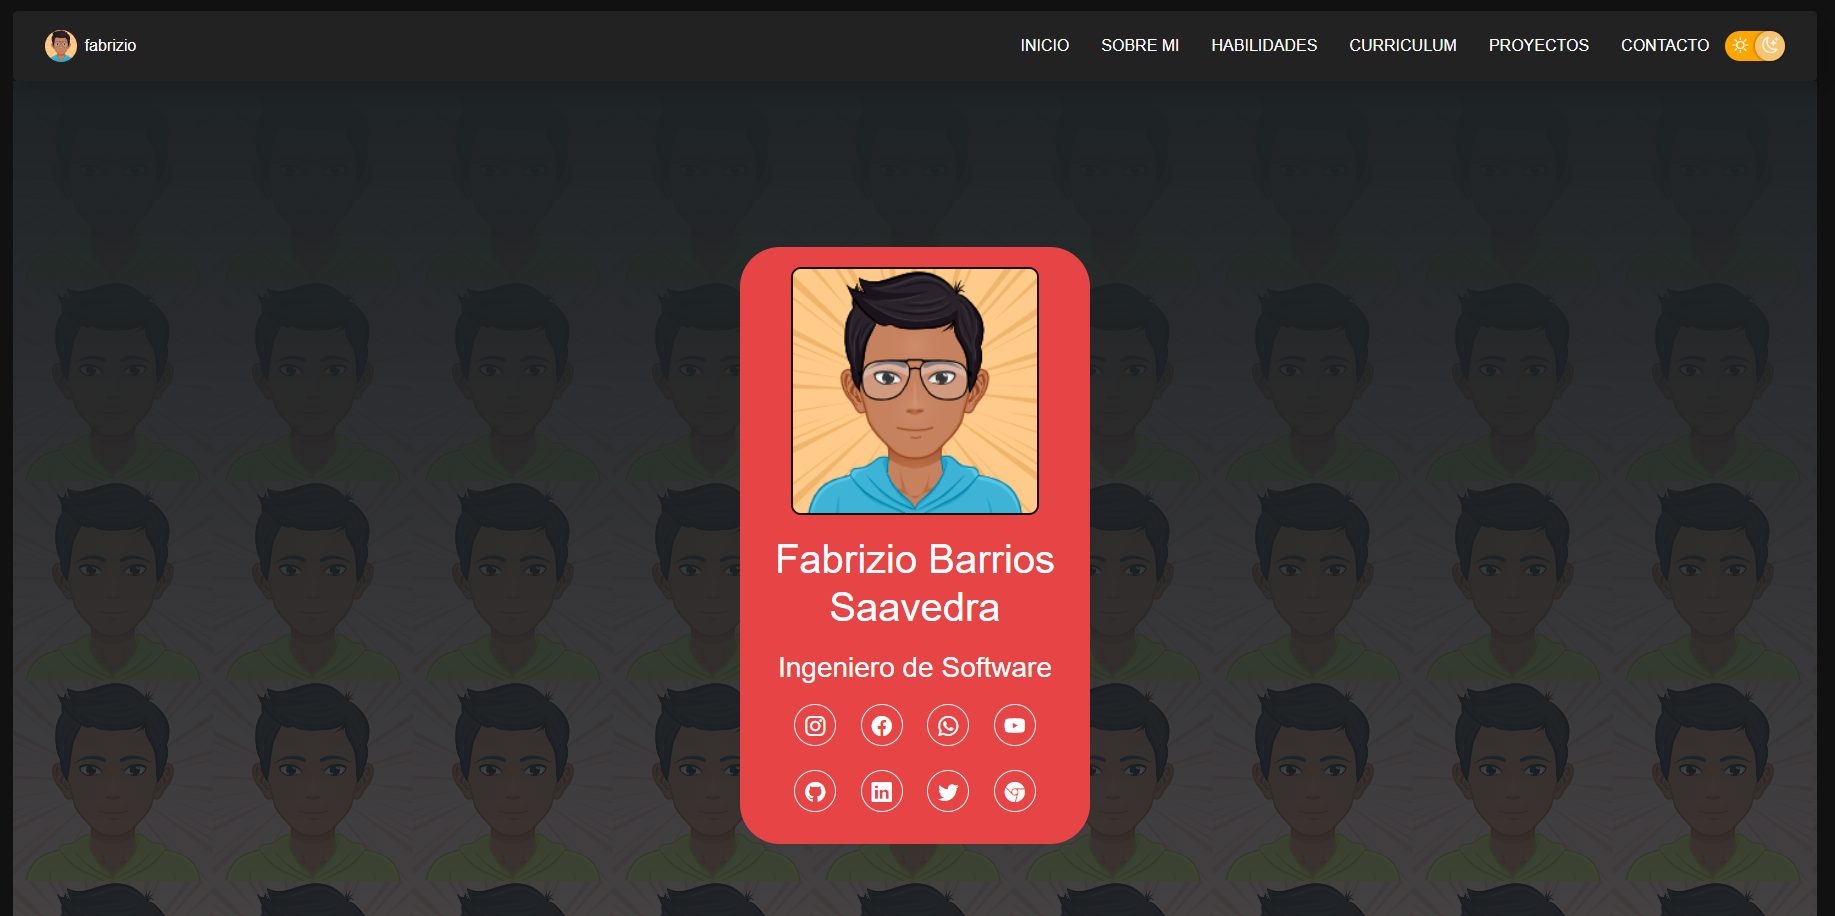
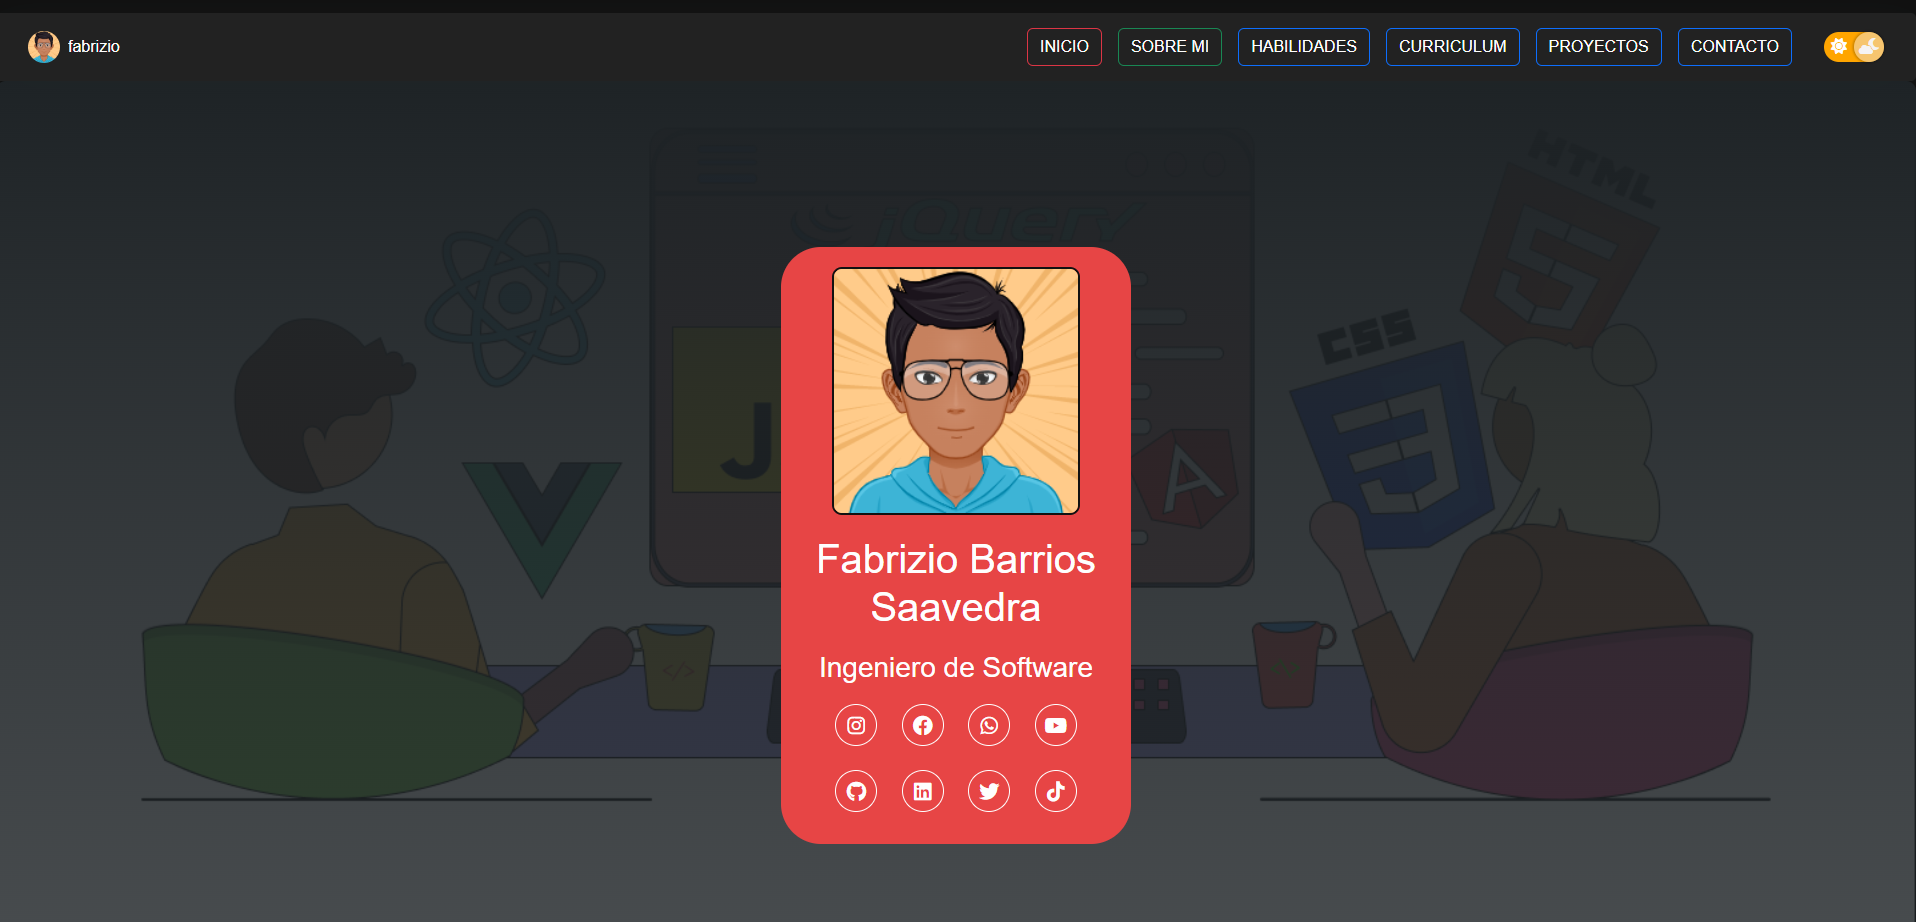
agregando readme y figma

diff --git a/index.html b/index.html
@@ -9,7 +9,9 @@
     <link rel="icon" href="img/avatar/icono.png">
     <!--CDN-->
     <link href="https://cdn.jsdelivr.net/npm/bootstrap@5.3.0-alpha1/dist/css/bootstrap.min.css" rel="stylesheet" integrity="sha384-GLhlTQ8iRABdZLl6O3oVMWSktQOp6b7In1Zl3/Jr59b6EGGoI1aFkw7cmDA6j6gD" crossorigin="anonymous">
-    <link rel="stylesheet" href="https://cdn.jsdelivr.net/npm/bootstrap-icons@1.10.3/font/bootstrap-icons.css">
+    
+    <!--FONTAWESOME-->
+    <link rel="stylesheet" href="https://cdnjs.cloudflare.com/ajax/libs/font-awesome/6.2.1/css/all.min.css" integrity="sha512-MV7K8+y+gLIBoVD59lQIYicR65iaqukzvf/nwasF0nqhPay5w/9lJmVM2hMDcnK1OnMGCdVK+iQrJ7lzPJQd1w==" crossorigin="anonymous">
     <link rel="stylesheet" href="scss/darkmode.css">
 </head>
 <body>
@@ -43,22 +45,19 @@
             <a href="#contacto" class="btn btn-outline-primary me-3">CONTACTO</a>
           </li>
         </ul>
-        <div class="nav-responsive" onclick="mostrarOcultarMenu()">
-          <i class="fa-solid fa-bars"></i>
-      </div>
         <button class="darkmode" id="darkmode">
-          <span><i class="bi bi-sun"></i></span>
-          <span><i class="bi bi-cloud-moon-fill"></i></span>
+          <span><i class="fas fa-sun"></i></span>
+          <span><i class="fas fa-cloud-moon"></i></span>
         </button> 
 
         <!-- responsive -->
         <button class="nave2 navbar-toggler border" type="button" data-bs-toggle="offcanvas" data-bs-target="#offcanvasNavbar2" aria-controls="offcanvasNavbar2">
-          <span><i class="bi bi-list"></i></span>
+          <span><i class="fa-solid fa-bars"></i></span>
         </button>
         <div class="offcanvas offcanvas-end" tabindex="-1" id="offcanvasNavbar2" aria-labelledby="offcanvasNavbar2Label">
           <div class="offcanvas-header">
             <h5 class="offcanvas-title" id="offcanvasNavbar2Label">Mi Perfil</h5>
-            <span><i class="bi bi-x-lg" data-bs-dismiss="offcanvas" aria-label="Close"></i></span>
+            <span><i class="fa-regular fa-circle-xmark fa-2x" data-bs-dismiss="offcanvas" aria-label="Close"></i></span>
           </div>
           <div class="offcanvas-body text-center">
             <ul class="navbar-nav justify-content-end flex-grow-1 pe-3">
@@ -97,14 +96,14 @@
         <h1>Fabrizio Barrios Saavedra</h1>
         <h2>Ingeniero de Software</h2>
         <div class="redsocial">
-          <a href=""><i class="bi bi-instagram"></i></a>
-          <a href=""><i class="bi bi-facebook"></i></a>
-          <a href=""><i class="bi bi-whatsapp"></i></a>
-          <a href=""><i class="bi bi-youtube"></i></a>
-          <a href=""><i class="bi bi-github"></i></a>
-          <a href=""><i class="bi bi-linkedin"></i></a>
-          <a href=""><i class="bi bi-twitter"></i></a>
-          <a href=""><i class="bi bi-browser-chrome"></i></a>
+          <a href=""><i class="fa-brands fa-instagram"></i></a>
+          <a href=""><i class="fa-brands fa-facebook"></i></a>
+          <a href=""><i class="fa-brands fa-whatsapp"></i></a>
+          <a href=""><i class="fa-brands fa-youtube"></i></a>
+          <a href=""><i class="fa-brands fa-github"></i></a>
+          <a href=""><i class="fa-brands fa-linkedin"></i></a>
+          <a href=""><i class="fa-brands fa-twitter"></i></a>
+          <a href=""><i class="fa-brands fa-tiktok"></i></a>
         </div>
       </div>
     </section>
@@ -151,9 +150,52 @@
             </div>
 
             <!--Intereses-->
+            <div class="col">
+              <h3>Intereses</h3>
+              <div class="contenedor-intereses">
+                <div class="interes">
+                  <i class="fa-solid fa-gamepad"></i>
+                  <span>JUEGOS</span>
+                </div>
+                <div class="interes">
+                  <i class="fa-solid fa-headphones-simple"></i>
+                  <span>MUSICA</span>
+                </div>
+                <div class="interes">
+                  <i class="fa-solid fa-plane-departure"></i>
+                  <span>VIAJAR</span>
+                </div>
+                <div class="interes">
+                  <i class="fa-brands fa-ubuntu"></i>
+                  <span>UBUNTU</span>
+                </div>
+                <!--icono para responsive-->
+                <div class="interes1">
+                  <i class="fa-brands fa-linux"></i>
+                  <span>UBUNTU</span>
+                </div>
+                <div class="interes">
+                  <i class="fa-solid fa-futbol"></i>
+                  <span>DEPORTE</span>
+                </div>
+                <div class="interes">
+                  <i class="fa-solid fa-laptop-code"></i>
+                  <span>PROGRAMAR</span>
+                </div>
+                <div class="interes">
+                  <i class="fa-solid fa-car"></i>
+                  <i class="fa-solid fa-motorcycle"></i>
+                  <span>AUTOS y motos</span>
+                </div>
+                <div class="interes">
+                  <i class="fa-solid fa-camera"></i>
+                  <span>FOTOS</span>
+                </div>
+              </div>
+            </div>
           </div>
-      </div>
-    </section>
+        </div>
+      </section>
 
     <!--contacto-->
     <section id="contacto" class="contacto">
@@ -167,7 +209,7 @@
             <input type="text" placeholder="Tu nombre">
             <input type="text" placeholder="Tu nombre">
             <textarea name="" id="" cols="30" placeholder="Mensaje"></textarea>
-            <button>
+            <button type="button" class="btn btn-outline">
               enviar Mensaje <i class="bi bi-send"></i>
               <span class="overlay"></span>
             </button>
@@ -217,7 +259,7 @@
             <h3>Hecho en Clases</h3>
             <div class="mb-1">Dic 29</div>
             <p class="card-text mb-auto">Aqui te presento una aplicacion de Escritorio.</p>
-            <a download="" href="download/SISCURSOS.rar" class="btn btn-outline-success bi bi-arrow-down-circle"  title="descargar el proyecto">&nbsp; descargar</a>
+            <a download="" href="download/SISCURSOS.rar" class="btn btn-outline-success fa-solid fa-download"  title="descargar el proyecto">&nbsp; descargar</a>
           </div>
         </div>
       </div>
@@ -225,6 +267,7 @@
     
 
     <!---->
+    <button type="button" class="btn btn-outline-primary">Puedes Descargar mi CV <i class="fa-solid fa-download"></i></button>
     <h1>pagina en prueba</h1>
     <a href="views/curriculum.html">puede ver mi curriculum haciendo click aqui</a>
     

diff --git a/scss/darkmode.scss b/scss/darkmode.scss
@@ -194,6 +194,8 @@ div {
 .inicio{
     body.dark & {
         box-shadow: $blanco;
+        background: linear-gradient(to top, rgba(30,35,38,.8), rgba(30,35,38,1)), url(../img/darkmode.png);
+        background-size: cover;
         a {
             color: $blanco;
             //que estos enlaces cuando tengan un hover cambien de color a blanco (x ejemplo)
@@ -323,23 +325,34 @@ div {
         line-height: 30px;
         display: block;
         background: none;
-        color: #fff;
+        color: $blanco;
     }
 }
 //fin modo oscuro
 
+/*para lo que es responsivo*/
+.navbar-toggler{
+    display: none;
+}
+
+.cajadw{
+    border: 2px solid $negro;
+    overflow: hidden;
+    position: relative;
+}
 
 /*seccion css*/
 .inicio{
-    //background: linear-gradient(to top, rgba(30,35,38,.8), rgba(30,35,38,1)), url(../img/avatar/myAvatar2.png);
-    background-size: contain;
+    background: linear-gradient(to top, rgba(238, 238, 238, .8), rgb(238, 238, 238, 1)), url(../img/whitemode.png);
+    //background: url(../img/whitemode.png);
+    background-size: cover;
     font-family: 'Ubuntu', sans-serif;
     height: 100vh; //altura del card
     color: $blanco;
     display: flex;
     align-items: center;
+    border-radius: 10px;
 }
-
 .inicio .contenedor-banner{
     background-color: $azulHover;
     padding: 20px;
@@ -358,7 +371,6 @@ div {
     text-align: center;
     border-radius: 10px;
 }
-
 .inicio .contenedor-banner h1{
     margin-top: 20px;
     font-size: 40px;
@@ -368,7 +380,6 @@ div {
     font-size: 28px;
     font-weight: normal;
 }
-
 .inicio .contenedor-banner .redsocial a{
     display: inline-block;
     text-decoration: none;
@@ -384,21 +395,14 @@ div {
 .inicio .contenedor-banner .redsocial a:hover{
     background-color: $rojo; //color q sale al pasar el cursor
 }
-/*para lo que es responsivo*/
-.navbar-toggler{
-    display: none;
-}
 
-.cajadw{
-    border: 2px solid $negro;
-    overflow: hidden;
-    position: relative;
+//seccion sobre mi
+.sobremi{
+    padding: 50px 20px;;
 }
-
 //seccion contacto
 .contacto{
-    background-image: url(../img/contact_bg.png);
-    background-color: $grisOscuro;
+    background-image: url(../img/mundo.png);
     color: $blanco;
     padding: 50px 0;
 }
@@ -443,6 +447,7 @@ div {
     z-index: 10;
 }
 .contacto button .overlay{
+    border-radius: 4px;
     position: absolute;
     top: 0;
     left: 0;
@@ -473,6 +478,7 @@ div {
 .contacto .col .info ul li i{
     display: none;
 }
+
 /*para quitar marca de 00webhost*/
 img[src*="https://cdn.000webhost.com/000webhost/logo/footer-powered-by-000webhost-white2.png"]{
     display: none;
@@ -482,6 +488,7 @@ img[src*="https://cdn.000webhost.com/000webhost/logo/footer-powered-by-000webhos
 
 @media screen and (max-width: 800px){
     .inicio{
+        background-image: none;
         height: 100vh; //altura del card
     }
     .navbar-toggler{

diff --git a/scss/darkmode.css b/scss/darkmode.css
@@ -159,6 +159,8 @@ body.dark .offcanvas-body li a:hover {
 
 body.dark .inicio {
   box-shadow: #FEFEFE;
+  background: linear-gradient(to top, rgba(30, 35, 38, 0.8), rgb(30, 35, 38)), url(../img/darkmode.png);
+  background-size: cover;
 }
 body.dark .inicio a {
   color: #FEFEFE;
@@ -266,17 +268,30 @@ body.dark .navbar .img2 {
   line-height: 30px;
   display: block;
   background: none;
-  color: #fff;
+  color: #FEFEFE;
+}
+
+/*para lo que es responsivo*/
+.navbar-toggler {
+  display: none;
+}
+
+.cajadw {
+  border: 2px solid #111111;
+  overflow: hidden;
+  position: relative;
 }
 
 /*seccion css*/
 .inicio {
-  background-size: contain;
+  background: linear-gradient(to top, rgba(238, 238, 238, 0.8), rgb(238, 238, 238)), url(../img/whitemode.png);
+  background-size: cover;
   font-family: "Ubuntu", sans-serif;
   height: 100vh;
   color: #FEFEFE;
   display: flex;
   align-items: center;
+  border-radius: 10px;
 }
 
 .inicio .contenedor-banner {
@@ -327,20 +342,12 @@ body.dark .navbar .img2 {
   background-color: #e74545;
 }
 
-/*para lo que es responsivo*/
-.navbar-toggler {
-  display: none;
-}
-
-.cajadw {
-  border: 2px solid #111111;
-  overflow: hidden;
-  position: relative;
+.sobremi {
+  padding: 50px 20px;
 }
 
 .contacto {
-  background-image: url(../img/contact_bg.png);
-  background-color: #222222;
+  background-image: url(../img/mundo.png);
   color: #FEFEFE;
   padding: 50px 0;
 }
@@ -394,6 +401,7 @@ body.dark .navbar .img2 {
 }
 
 .contacto button .overlay {
+  border-radius: 4px;
   position: absolute;
   top: 0;
   left: 0;
@@ -440,6 +448,7 @@ img[src*="https://cdn.000webhost.com/000webhost/logo/footer-powered-by-000webhos
 /**/
 @media screen and (max-width: 800px) {
   .inicio {
+    background-image: none;
     height: 100vh;
   }
   .navbar-toggler {

diff --git a/README.md b/README.md
@@ -1,20 +1,27 @@
-Estoy en Proceso de Crear mi Portafolio Personal
-click en el siguiente enlace: 
+Mi portafolio Personal Esta Casi Listo
+Lenguajes Utilizados:
+<h4 class="py-3">HTML</h4>
+<h4 class="py-3">SCSS</h4>
+<h4 class="py-3">CSS</h4>
+<h4 class="py-3">BOOTSTRAP</h4>
+<h4 class="py-3">FONT AWESOME</h4>
+<h4 class="py-3">FIGMA (imagenes de fondo)</h4>
 <br>
-<h3>GITHUB</h3>
+Puedes Visualizarlo en los siguientes enlaces: 
+<h3 class="py-4">GITHUB</h3>
 <a href="https://fabriziobarriossaavedra.github.io/repositorio.com" title="Ver Proyecto rounded-3">🙂 GIT HUB</a>
-<br>
-<h3></h3>
+
+<h3 class="py-4">VERCEL</h3>
 <a href="https://repositorio-com.vercel.app" title="Ver Proyecto">🙂 VERCEL APP</a>    
 
-por el momento esta en mantenimiento ;)
-<br>
-<a class="py-3 border rounded-5"><img src="img/readme/lightmode.png" alt="blanco" border="0"></a>
-<a class="py-4 border rounded-5"><img src="img/readme/darkmode.png" alt="negro" border="0"></a>
-<a class="py-2 border rounded-5"><img src="img/readme/vid1.gif" alt="video" border="3" style="width: 20rem;"></a>
+<h4 class="py-3">por el momento esta en mantenimiento ;)</h4>
+<a class="py-4" align="center"><img src="img/readme/lightmode.png" alt="blanco" border="0" style="width: 40rem;"></a>
+<a class="py-4" align="center"><img src="img/readme/darkmode.png" alt="negro" border="0" style="width: 40rem;"></a>
+<h4>FIGMA</h4>
+<a class="py-4" align="center"><img src="img/readme/figma.png" alt="negro" border="0" style="width: 40rem;"></a>
 
 <h1>Pronto Nueva App de Escritorio</h1>
 <h4>Preview</h4>
-<a class="py-2 border rounded-5"><img src="img/readme/escritorio.gif" alt="Desktop" border="3" style="width: 40rem;"></a>
+<a class="py-2" align="center"><img src="img/readme/escritorio.gif" alt="Desktop" border="0" style="width: 40rem;"></a>
 <h3><b>Realizado por:</b> Fabrizio Barrios Saavedra (RFBS19)</h3>
-<img src="img/avatar/myAvatar3.png" width="200" alt="avatar">
+<img src="img/readme/foter.jpg" width="200" alt="avatar">
